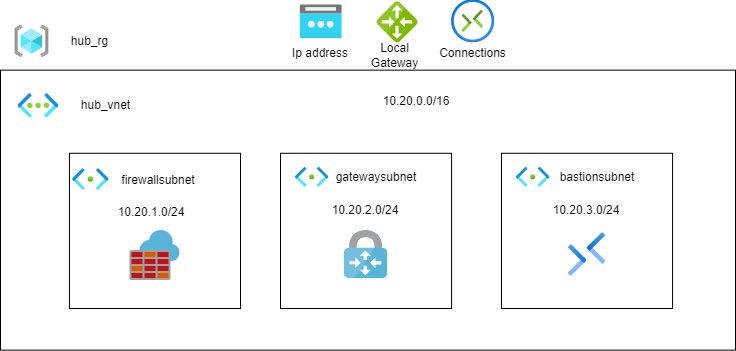
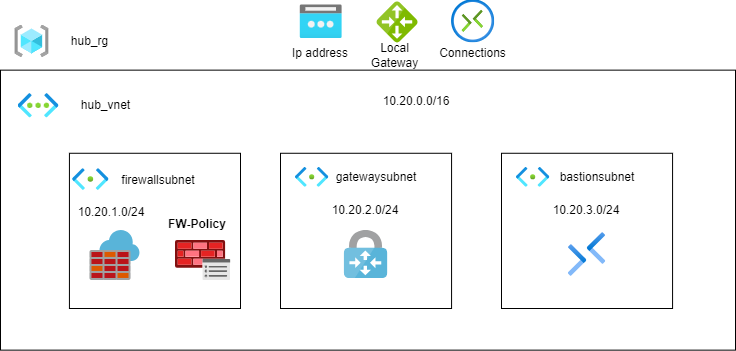
update

Changed region(s): [[0.0938, 0.5698, 0.3125, 0.7977]]

diff --git a/hub/_header.md b/hub/_header.md
@@ -1,0 +1,73 @@
+# Hub Resource Group
+The Hub Resource Group offers a consolidated platform that delivers centralized services and networking across the entire infrastructure, serving as the main hub for connectivity and security oversight.
+
+## Configuration Details
+
+1. Create the Resource Group 🗂
+- Create a resource group to centralize all services and networking elements for the hub.
+
+2. Create the Virtual Network 🌐
+- Set up a virtual network for the hub, detailing the address range and configuration settings.
+
+3. Create Subnets 🧩
+- Divide the virtual network into distinct subnets, each assigned a unique address prefix and potential service delegations.
+
+4. Allocate Public IP Addresses 🌍
+- Assign public IP addresses to resources that require internet accessibility.
+
+5. Implement a Bastion Host 🔐
+- Deploy a Bastion Host to facilitate secure RDP/SSH access to virtual machines within the network, keeping them protected from public exposure.
+
+6. Create a Virtual Network Gateway 🔗
+- Create a VPN gateway to facilitate site-to-site VPN connections between on-premises infrastructure and Azure.
+
+7. Create a Firewall 🛡
+- Establish a firewall to safeguard and regulate incoming and outgoing traffic across the network.
+
+8. Create a Firewall Policy 📜
+- Create a firewall policy to outline the rules and configurations for managing the Azure Firewall.
+
+9. Organize IP Addresses into Groups 🏷
+- Group IP addresses for more straightforward management and application of firewall policies.
+
+10. Configure Firewall Rules 🔧
+- Set up network and application rules within the firewall policy to manage traffic flow effectively.
+
+11. Enable Virtual Network Peering 🔄
+- Create peering connections between the hub virtual network and spoke virtual networks to allow seamless communication.
+
+### Integrate with On-Premises Network 🏢
+
+1. Identify On-Premises Public IP and Virtual Network 🌍
+- Determine the public IP address and define the virtual network for the on-premises environment.
+
+2. Set Up a Local Network Gateway 🌐
+- Create a local network gateway in Azure to represent the on-premises VPN device, including its public IP address and address space.
+
+3. Establish a VPN Connection 🔗
+- Connect the Azure virtual network gateway to the local network gateway on-premises, specifying the connection type (IPsec) and shared authentication key.
+
+4. Create a Routing Table 🗺
+- Define a routing table to manage traffic flow between the on-premises network and Azure, adding necessary routes for directing traffic through the VPN gateway.
+
+5. Associate the Routing Table with Subnets 🔗
+- Connect the routing table to the relevant subnets in the hub virtual network to enforce the established routing rules.
+
+## Architecture Diagram
+![Hub](https://github.com/user-attachments/assets/b1f6209d-fec7-461e-8f4d-ed09559e1184)
+
+## Run the Terraform configurations :
+Deploy the resources using Terraform,
+```
+terraform init
+```
+```
+terraform plan
+```
+```
+terraform apply
+```
+
+
+
+

diff --git a/hub/_footer.md b/hub/_footer.md
@@ -1,0 +1,1 @@
+Here you'll find the Terraform files that configure the Hub Network.
